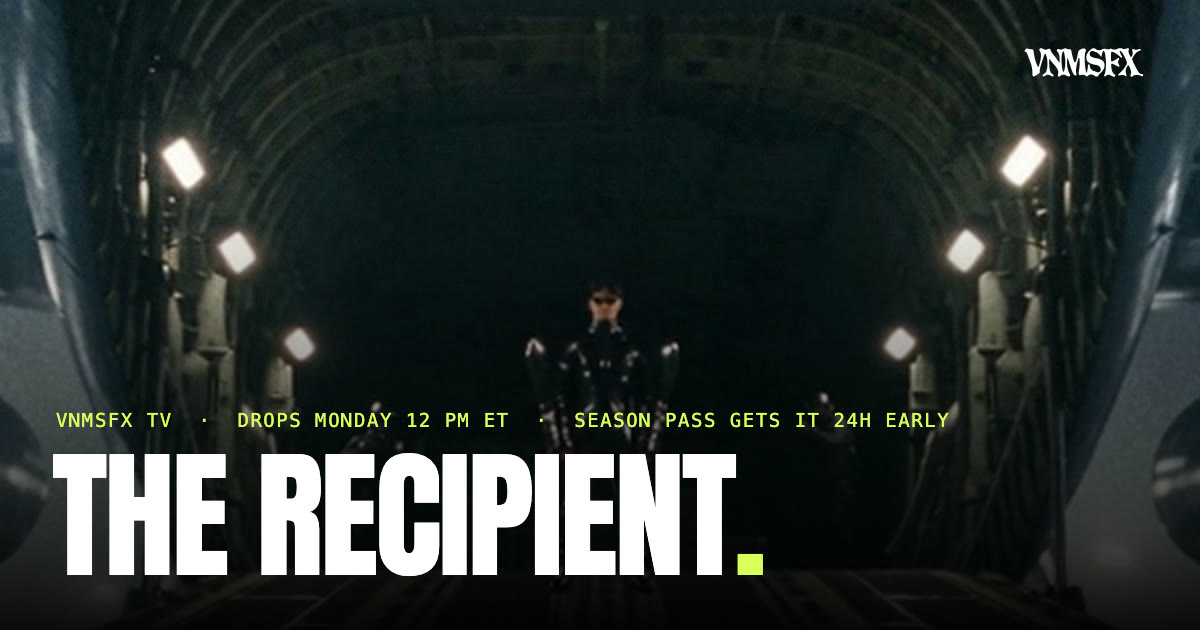
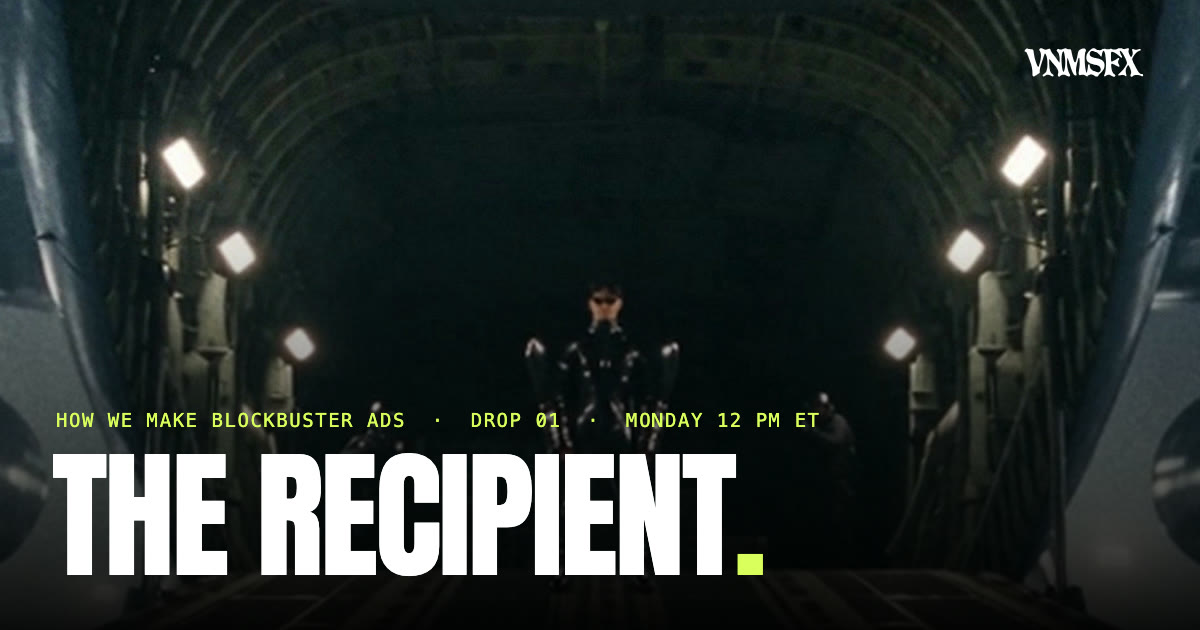
Drops: the series is 'How We Make Blockbuster Ads'
Named on the stage eyebrow, the index headline, the pass headline, meta
and share cards, and both email eyebrows, so every surface says what the
drops are, not only what is dropping.

Changed region(s): [[0.0308, 0.6333, 0.6475, 0.6937], [0.7092, 0.6333, 0.7708, 0.6937]]

diff --git a/drops.html b/drops.html
@@ -3,9 +3,9 @@
 <head>
 <meta charset="utf-8"><meta name="viewport" content="width=device-width, initial-scale=1">
 <title>Drops — VNMSFX TV</title>
-<meta name="description" content="Every VNMSFX TV spot, with a countdown to the next one. Season Pass holders get each drop 24 hours early and the drop rate on the Creative Sprint.">
+<meta name="description" content="How we make blockbuster ads, one drop at a time. Each drop: the spot 24 hours early for the Season Pass, then the idea and the prompt stack behind it.">
 <link rel="canonical" href="https://vnmsfx.com/drops"><meta name="theme-color" content="#101010">
-<meta property="og:type" content="website"><meta property="og:site_name" content="VNMSFX TV"><meta property="og:url" content="https://vnmsfx.com/drops"><meta property="og:title" content="Drops — VNMSFX TV"><meta property="og:description" content="Every spot, and a countdown to the next one."><meta property="og:image" content="https://vnmsfx.com/tv/drops/share-drops.jpg"><meta property="og:image:secure_url" content="https://vnmsfx.com/tv/drops/share-drops.jpg"><meta property="og:image:type" content="image/jpeg"><meta property="og:image:width" content="1200"><meta property="og:image:height" content="630"><meta property="og:image:alt" content="VNMSFX TV Drops — new spots 24 hours early with the free Season Pass."><meta name="twitter:card" content="summary_large_image"><meta name="twitter:image" content="https://vnmsfx.com/tv/drops/share-drops.jpg">
+<meta property="og:type" content="website"><meta property="og:site_name" content="VNMSFX TV"><meta property="og:url" content="https://vnmsfx.com/drops"><meta property="og:title" content="How We Make Blockbuster Ads — VNMSFX TV Drops"><meta property="og:description" content="One spot at a time: the spot 24 hours early, then the idea and the prompt stack behind it."><meta property="og:image" content="https://vnmsfx.com/tv/drops/share-drops.jpg"><meta property="og:image:secure_url" content="https://vnmsfx.com/tv/drops/share-drops.jpg"><meta property="og:image:type" content="image/jpeg"><meta property="og:image:width" content="1200"><meta property="og:image:height" content="630"><meta property="og:image:alt" content="VNMSFX TV Drops — new spots 24 hours early with the free Season Pass."><meta name="twitter:card" content="summary_large_image"><meta name="twitter:image" content="https://vnmsfx.com/tv/drops/share-drops.jpg">
 <link rel="icon" href="/favicon.ico" sizes="any"><link rel="icon" type="image/png" sizes="32x32" href="/assets/favicon-32.png"><link rel="icon" type="image/png" sizes="16x16" href="/assets/favicon-16.png"><link rel="apple-touch-icon" href="/assets/favicon-180.png">
 <link rel="preconnect" href="https://fonts.googleapis.com"><link rel="preconnect" href="https://fonts.gstatic.com" crossorigin>
 <link href="https://fonts.googleapis.com/css2?family=Anton&amp;family=Archivo:wght@400;500;600;700;800;900&amp;family=Space+Mono:wght@400;700&amp;display=swap" rel="stylesheet">
@@ -15,7 +15,7 @@
 <a class="skip" href="#main">Skip to content</a>
 <header class="drop-header"><a class="brand" href="/tv" aria-label="VNMSFX TV"><img src="/assets/logo.svg" width="115" height="28" alt="VNMSFX"></a><nav><a href="/tv">VNMSFX TV</a><a class="nav-pass" href="/drops/the-recipient#pass">Season Pass <span aria-hidden="true">↗</span></a></nav></header>
 <main id="main">
-<section class="index-hero"><p class="eyebrow">VNMSFX TV / DROPS</p><h1>EVERY SPOT.<br><em>ONE AT A TIME.</em></h1><p>Each drop gets a countdown, a page, and a window. Season Pass holders see it 24 hours early and get the drop rate on the Creative Sprint while the window's open.</p></section>
+<section class="index-hero"><p class="eyebrow">VNMSFX TV / DROPS</p><h1>HOW WE MAKE<br><em>BLOCKBUSTER ADS.</em></h1><p>One spot at a time. Each drop is the spot, 24 hours early for the Season Pass, then the idea and the prompt stack that built it. The drop rate on the Creative Sprint is open while the window is.</p></section>
 <section class="index-grid" aria-label="Drops">
   <a class="index-item" href="/drops/the-recipient"><img src="/tv/drops/card-1-ramp.jpg" width="1080" height="1920" alt="The Recipient — package is inbound"><span class="tag" data-drop-tag data-release="2026-09-21T16:00:00Z">NEXT · MON 12 PM ET</span><h3>The Recipient<span class="acid">.</span></h3><span class="sub">A 15-second spot · package is inbound</span></a>
   <a class="index-item" href="/tv/spots/fries.mp4" data-film data-title="You’re Up." data-poster="/tv/spots/fries.jpg"><img src="/tv/spots/fries.jpg" width="540" height="960" alt="You’re Up. — frozen fries get a classified extraction"><span class="tag is-live">OUT NOW · PLAY ↗</span><h3>You’re Up<span class="acid">.</span></h3><span class="sub">Frozen fries, classified extraction</span></a>

diff --git a/drops/the-recipient.html b/drops/the-recipient.html
@@ -3,11 +3,11 @@
 <head>
 <meta charset="utf-8"><meta name="viewport" content="width=device-width, initial-scale=1">
 <title>The Recipient — VNMSFX TV</title>
-<meta name="description" content="Package is inbound. The Recipient, a VNMSFX TV spot, drops Monday, September 21 at 12:00 PM ET. Season Pass holders get it 24 hours early.">
+<meta name="description" content="How we make blockbuster ads, one drop at a time. The Recipient drops Monday, September 21 at 12:00 PM ET. Season Pass holders get the spot 24 hours early, then the idea and the prompt stack behind it.">
 <link rel="canonical" href="https://vnmsfx.com/drops/the-recipient"><meta name="theme-color" content="#101010">
 <meta property="og:type" content="website"><meta property="og:site_name" content="VNMSFX TV"><meta property="og:url" content="https://vnmsfx.com/drops/the-recipient">
-<meta property="og:title" content="The Recipient — drops Monday 12 PM ET"><meta property="og:description" content="Package is inbound. Brands on the Season Pass see it 24 hours early and get the drop rate.">
-<meta property="og:image" content="https://vnmsfx.com/tv/drops/share-the-recipient.jpg"><meta property="og:image:secure_url" content="https://vnmsfx.com/tv/drops/share-the-recipient.jpg"><meta property="og:image:type" content="image/jpeg"><meta property="og:image:width" content="1200"><meta property="og:image:height" content="630"><meta property="og:image:alt" content="The Recipient — drops Monday 12 PM ET. A figure on the ramp of a cargo plane."><meta name="twitter:card" content="summary_large_image"><meta name="twitter:title" content="The Recipient — drops Monday 12 PM ET"><meta name="twitter:description" content="Package is inbound. Season Pass holders get it 24 hours early."><meta name="twitter:image" content="https://vnmsfx.com/tv/drops/share-the-recipient.jpg">
+<meta property="og:title" content="The Recipient — How We Make Blockbuster Ads, Drop 01"><meta property="og:description" content="Drops Monday 12 PM ET. The Season Pass gets the spot 24 hours early, then the idea and the prompt stack behind it.">
+<meta property="og:image" content="https://vnmsfx.com/tv/drops/share-the-recipient.jpg"><meta property="og:image:secure_url" content="https://vnmsfx.com/tv/drops/share-the-recipient.jpg"><meta property="og:image:type" content="image/jpeg"><meta property="og:image:width" content="1200"><meta property="og:image:height" content="630"><meta property="og:image:alt" content="The Recipient — drops Monday 12 PM ET. A figure on the ramp of a cargo plane."><meta name="twitter:card" content="summary_large_image"><meta name="twitter:title" content="The Recipient — How We Make Blockbuster Ads, Drop 01"><meta name="twitter:description" content="Drops Monday 12 PM ET. The Season Pass gets the spot 24 hours early, then the idea and the prompt stack behind it."><meta name="twitter:image" content="https://vnmsfx.com/tv/drops/share-the-recipient.jpg">
 <link rel="icon" href="/favicon.ico" sizes="any"><link rel="icon" type="image/png" sizes="32x32" href="/assets/favicon-32.png"><link rel="icon" type="image/png" sizes="16x16" href="/assets/favicon-16.png"><link rel="apple-touch-icon" href="/assets/favicon-180.png">
 <link rel="preconnect" href="https://fonts.googleapis.com"><link rel="preconnect" href="https://fonts.gstatic.com" crossorigin>
 <link href="https://fonts.googleapis.com/css2?family=Anton&amp;family=Archivo:wght@400;500;600;700;800;900&amp;family=Space+Mono:wght@400;700&amp;display=swap" rel="stylesheet">
@@ -25,7 +25,7 @@
     <div class="shade" id="shade"></div>
   </div>
   <div class="stage-copy">
-    <p class="eyebrow" id="stage-eyebrow">VNMSFX TV PRESENTS</p>
+    <p class="eyebrow" id="stage-eyebrow">HOW WE MAKE BLOCKBUSTER ADS · DROP 01</p>
     <h1 id="drop-title">THE RECIPIENT<span class="acid">.</span></h1>
     <p class="countdown-label" id="countdown-label">DROPS IN</p>
     <p class="countdown" id="countdown" aria-live="polite">--:--:--</p>
@@ -38,7 +38,7 @@
   <a class="card pass-card" href="/tv/drops/card-1-ramp.jpg" data-card><img src="/tv/drops/card-1-ramp.jpg" width="1080" height="1920" alt="Package is inbound. A figure stands on the ramp of a cargo plane." loading="eager"></a>
   <div class="pass-copy">
     <p class="eyebrow">SEASON PASS · FOR BRANDS</p>
-    <h2 id="pass-title">SEE THE WORK <em>FIRST.</em></h2>
+    <h2 id="pass-title">SEE HOW IT'S <em>MADE.</em></h2>
     <p class="pass-intro">Every studio shows you the finished spot. Nobody shows you how it got made. The pass does — one drop at a time, for nothing.</p>
     <ol class="promises">
       <li><span>01</span><p>You see each spot 24 hours before anyone else.</p></li>

diff --git a/api/_drop-mail.js b/api/_drop-mail.js
@@ -38,7 +38,7 @@ VNMSFX TV — ${pageUrl}
 You're getting this because you're on the Season Pass. One email per drop. Reply "stop" and you're off.`;
 const html = (name) => `<!doctype html><html><body style="margin:0;padding:0;background:#000;"><table role="presentation" width="100%" cellpadding="0" cellspacing="0" border="0" style="background:#000;"><tr><td align="center" style="padding:28px 12px;"><table role="presentation" width="100%" cellpadding="0" cellspacing="0" border="0" style="max-width:600px;background:${ink};">
 <tr><td><a href="${filmUrl}"><img src="https://vnmsfx.com${drop.cards[2]}" width="600" alt="${drop.title}" style="display:block;width:100%;height:auto;border:0;"></a></td></tr>
-<tr><td style="padding:28px 32px 0 32px;"><div style="${mono}font-size:11px;color:${grey};">SEASON PASS · 24 HOURS EARLY</div><div style="${display}font-size:44px;line-height:1.02;color:#fff;margin-top:10px;">${drop.title.toUpperCase()}<span style="color:${acid};">.</span></div></td></tr>
+<tr><td style="padding:28px 32px 0 32px;"><div style="${mono}font-size:11px;color:${grey};">HOW WE MAKE BLOCKBUSTER ADS · DROP 01 · 24 HOURS EARLY</div><div style="${display}font-size:44px;line-height:1.02;color:#fff;margin-top:10px;">${drop.title.toUpperCase()}<span style="color:${acid};">.</span></div></td></tr>
 <tr><td style="padding:18px 32px 0 32px;${body}font-size:16px;line-height:1.6;color:#ddd;">Hey ${name} — it's yours a day before anyone else. Public ${publicAt}. Until then it's just the list.</td></tr>
 <tr><td style="padding:22px 32px 0 32px;"><a href="${filmUrl}" style="${body}display:inline-block;background:${acid};color:${ink};text-decoration:none;font-weight:700;font-size:14px;padding:16px 20px;">Watch with sound &nbsp;↗</a></td></tr>
 <tr><td style="padding:26px 32px 0 32px;"><div style="${mono}font-size:11px;color:${grey};">THE BRIEF</div><div style="${body}font-size:15px;line-height:1.6;color:#fff;margin-top:6px;">${drop.brief}</div><div style="${mono}font-size:11px;color:${grey};margin-top:16px;">WHAT IT TOOK</div><div style="${body}font-size:15px;line-height:1.6;color:#fff;margin-top:6px;">${drop.took}</div></td></tr>

diff --git a/api/season-pass.js b/api/season-pass.js
@@ -76,7 +76,7 @@ function welcomeHtml(firstName, drop, rateOpen) {
 <table role="presentation" width="100%" cellpadding="0" cellspacing="0" border="0" style="max-width:600px;background:${ink};">
   <tr><td style="padding:0;"><img src="https://vnmsfx.com/tv/drops/email-header.jpg" width="600" alt="VNMSFX TV" style="display:block;width:100%;height:auto;border:0;"></td></tr>
   <tr><td style="padding:28px 32px 0 32px;">
-    <div style="${mono}font-size:11px;color:${grey};">VNMSFX TV / SEASON PASS</div>
+    <div style="${mono}font-size:11px;color:${grey};">HOW WE MAKE BLOCKBUSTER ADS / SEASON PASS</div>
     <div style="${display}font-size:44px;line-height:1.02;color:#ffffff;margin-top:10px;">YOU'RE ON<br>THE <span style="color:${acid};">LIST.</span></div>
   </td></tr>
   <tr><td style="padding:20px 32px 0 32px;${body}font-size:16px;line-height:1.6;color:#dddddd;">

diff --git a/drops/drops.js b/drops/drops.js
@@ -18,7 +18,7 @@
     stage.classList.add('is-live');
     tease.pause(); tease.hidden = true;
     film.src = body.dataset.film; film.poster = body.dataset.poster; film.hidden = false;
-    eyebrow.textContent = 'VNMSFX TV · NOW SHOWING';
+    eyebrow.textContent = 'HOW WE MAKE BLOCKBUSTER ADS · DROP 01 · OUT NOW';
     label.textContent = 'OUT NOW'; countdown.textContent = '00:00:00'; countdown.hidden = true;
     releaseLine.textContent = 'Released Monday, September 21 · 12:00 PM ET';
     actions.innerHTML = '<button class="button-acid" type="button" id="play-film">Play with sound <span aria-hidden="true">↗</span></button><a class="button-dark" href="/creative-sprint?rate=drop&drop=' + body.dataset.drop + '">Start a Sprint at $1,500 <span aria-hidden="true">↗</span></a>';
